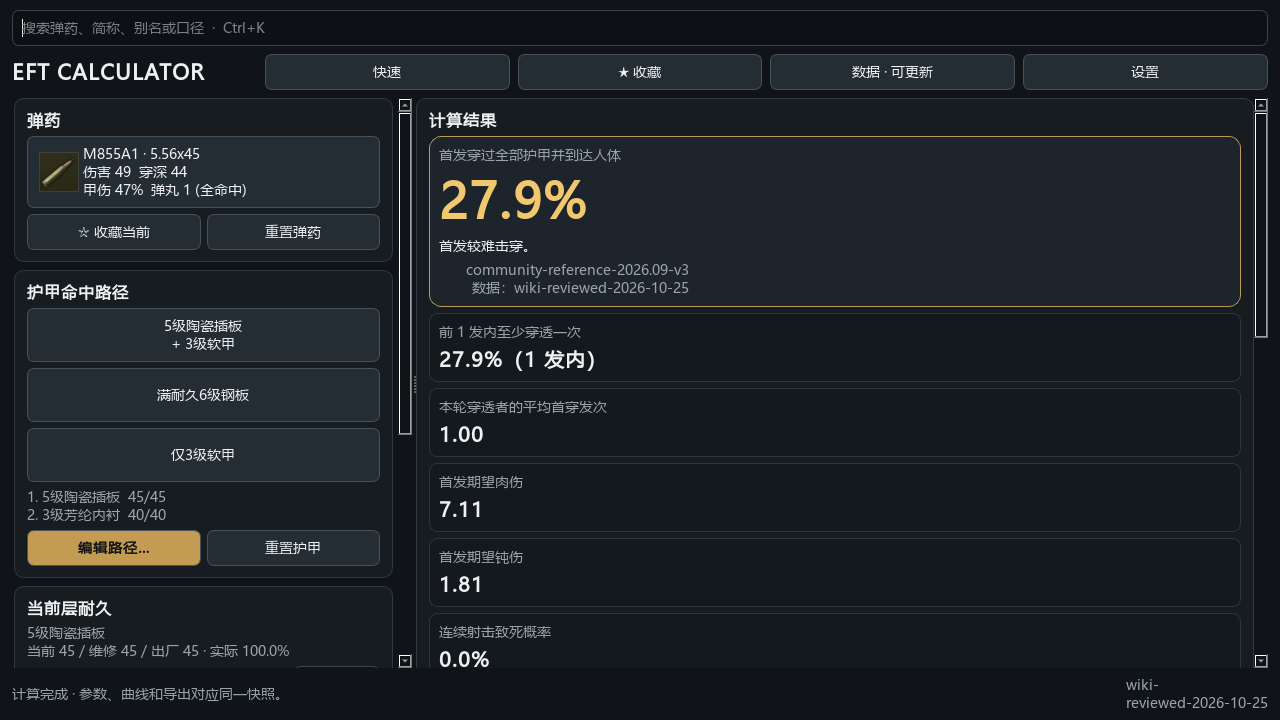
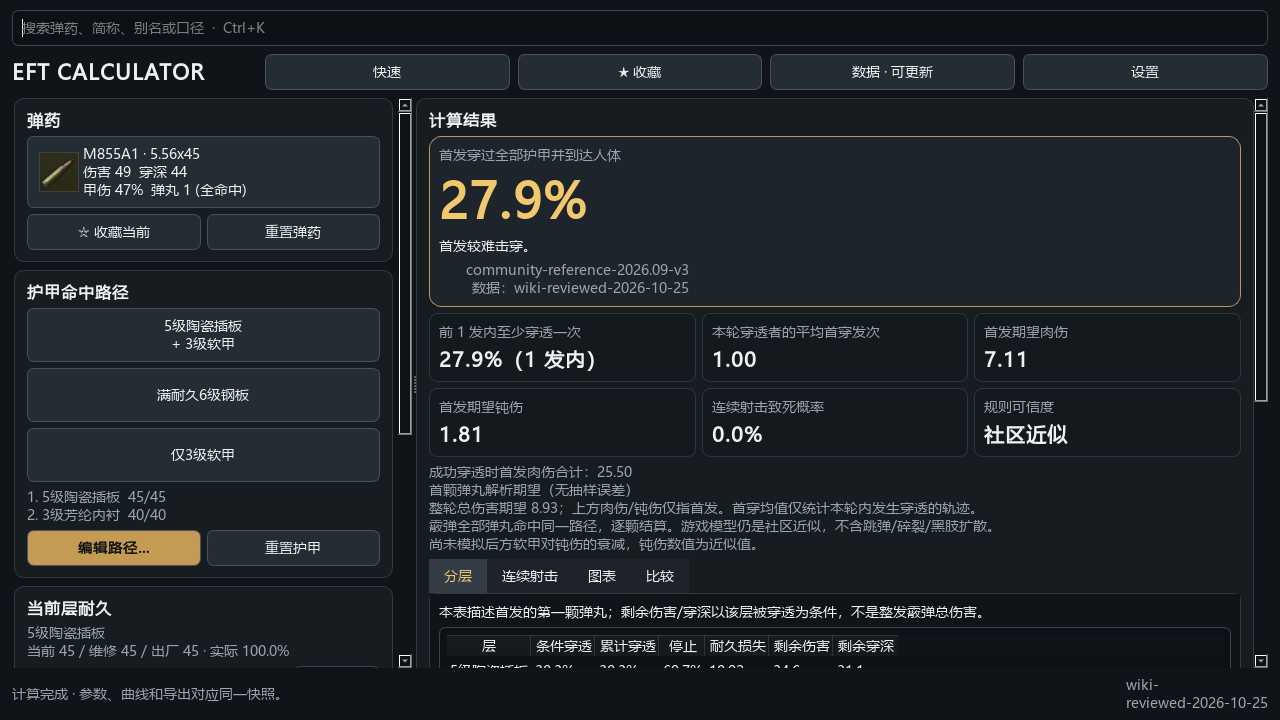
fix: reflow result cards after initial viewport layout

diff --git a/tests/test_audit_ui_language.py b/tests/test_audit_ui_language.py
@@ -24,3 +24,16 @@ def test_english_dynamic_controls_tables_and_chart_labels(qtbot, tmp_path, monke
     assert not [text for text in texts if re.search(r"[\u4e00-\u9fff]", text)]
     window.close()
     window.thread_pool.waitForDone(10000)
+
+
+def test_initial_wide_show_uses_actual_result_viewport_width(qtbot, tmp_path):
+    _, window = create_application(Database(tmp_path/"first-show.sqlite3"))
+    qtbot.addWidget(window)
+    window.resize(1920, 1080)
+    window.show()
+    qtbot.wait(60)
+    assert window.results_scroll.width() >= 800
+    assert window.metric_grid.itemAtPosition(0, 2) is not None
+    assert window.metric_grid.itemAtPosition(1, 2) is not None
+    window.close()
+    window.thread_pool.waitForDone(10000)

diff --git a/src/tarkov_armor_sim/ui_v2.py b/src/tarkov_armor_sim/ui_v2.py
@@ -1912,6 +1912,11 @@ class MainWindow(QMainWindow):
         self.data_version_label.setVisible(self.width() >= 600)
         self.input_panel.setMinimumWidth(0)
         self.results_panel.setMinimumWidth(0)
+        # Initial show/resize happens before the child scroll viewport is laid out.
+        # Reflow on the next event turn using its actual width, not the stale width.
+        QTimer.singleShot(0, self._reflow_result_cards)
+
+    def _reflow_result_cards(self) -> None:
         if hasattr(self, "common_buttons"):
             columns = 1 if self.results_scroll.width() < 480 else 3
             for index, button in enumerate(self.common_buttons):

diff --git a/docs/AUDIT_2026-10-25.md b/docs/AUDIT_2026-10-25.md
@@ -171,7 +171,7 @@ Android 宽屏：
 
 ## 8. 构建、回归、签名与发布
 
-本地 Ruff 通过，pytest **230 项通过**，Android JVM **4 项通过**，专用模拟器 instrumentation **5 项通过**。
+本地 Ruff 通过，pytest **231 项通过**，Android JVM **4 项通过**，专用模拟器 instrumentation **5 项通过**。
 本地验收还包括数据库坏行/坏文件/旧库、真实 Windows EXE 三场景、
 Android JVM、Room 迁移/坏文件、共享 Python 数值、Compose 重建，以及两种 APK 构建。
 测试数量和运行证据保留在本目录 XML / instrumentation.txt / results.json，最终远端状态见交付记录。
